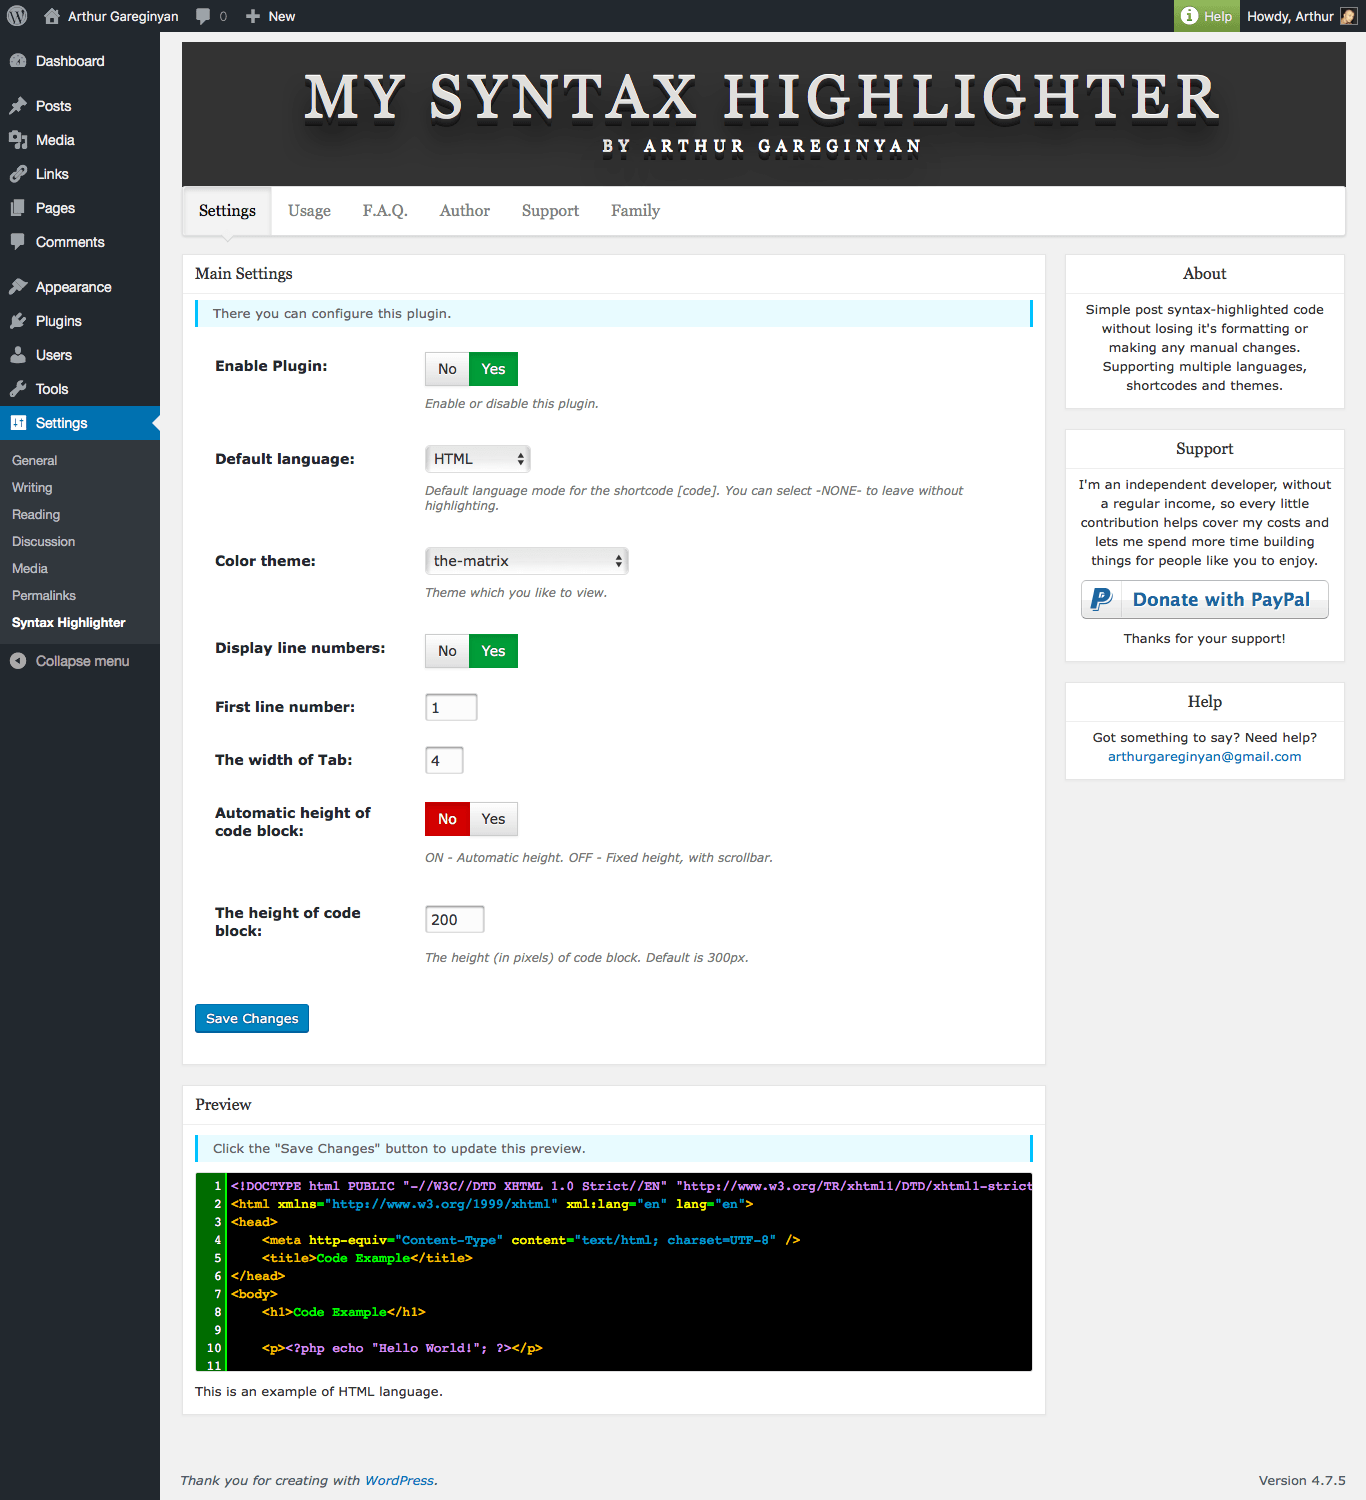
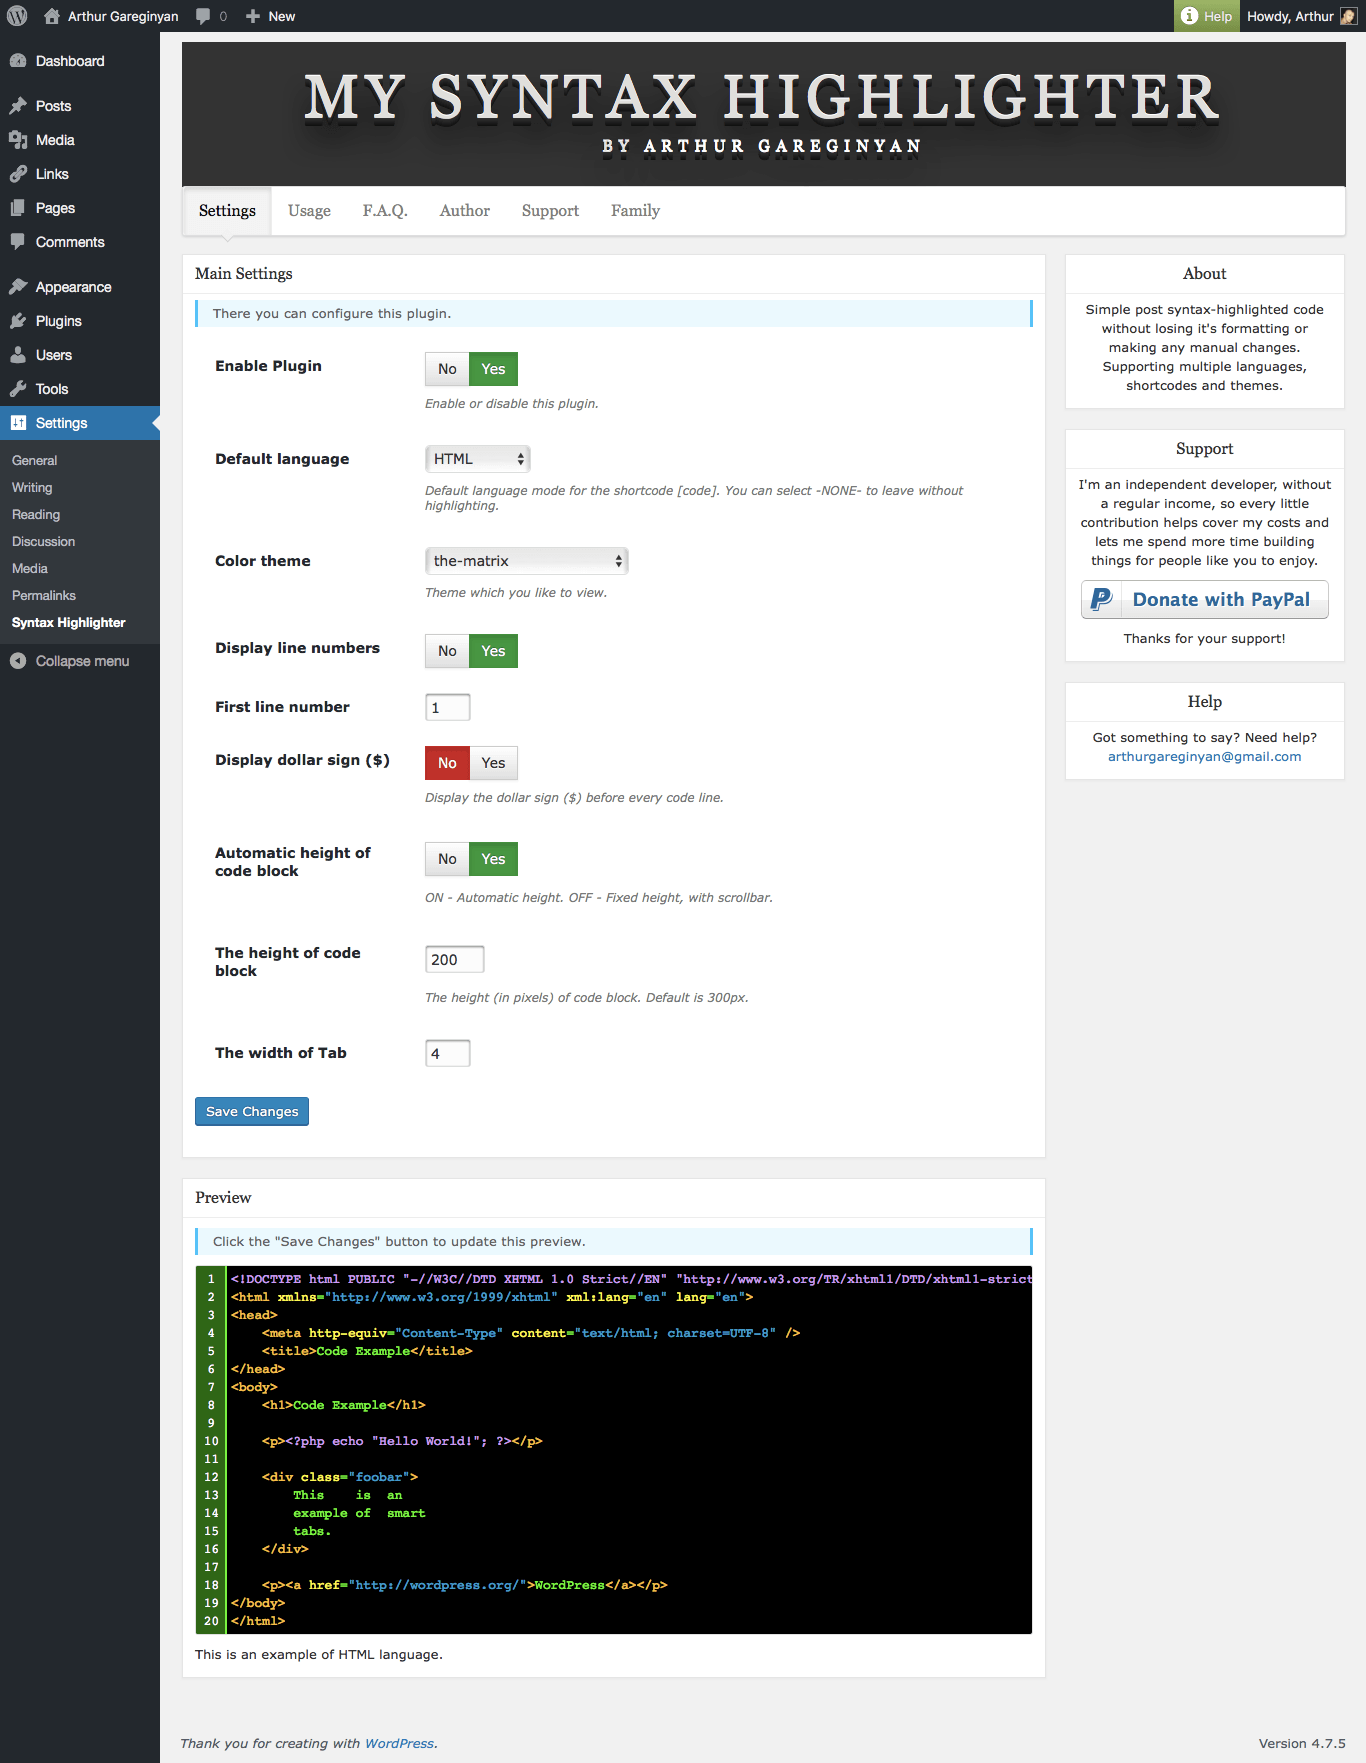
Plugin updated to version 2.3

diff --git a/inc/js/codemirror-settings.js b/inc/js/codemirror-settings.js
@@ -5,7 +5,7 @@
  * @uthor       Arthur Gareginyan
  * @link        http://www.arthurgareginyan.com
  * @copyright   Copyright (c) 2016-2017 Arthur Gareginyan. All Rights Reserved.
- * @since       2.0
+ * @since       2.3
  */
 
 
@@ -17,6 +17,7 @@ jQuery(document).ready(function($) {
     var theme = mshighlighter_scriptParams["theme"];
     var line_numbers = ( mshighlighter_scriptParams["line_numbers"] == 'true' );
     var first_line_number = parseInt( mshighlighter_scriptParams["first_line_number"] );
+    var dollar_sign = mshighlighter_scriptParams["dollar_sign"];
     var tab_size = parseInt( mshighlighter_scriptParams["tab_size"] );
 
     // Find all textareas on page
@@ -90,5 +91,14 @@ jQuery(document).ready(function($) {
         editor.refresh();
 
     });
+
+    // Replace line numbers with dollar sign
+    if ( dollar_sign == 'true' ) {
+        $(".CodeMirror-linenumber").each(function() {
+            var number = $(this).text();
+            var dollar = number.replace(/[0-9]+/, "$");
+            $(this).text(dollar);
+        });
+    }
 
 });

diff --git a/inc/css/frontend.css b/inc/css/frontend.css
@@ -5,7 +5,7 @@
  * @uthor       Arthur Gareginyan
  * @link        http://www.arthurgareginyan.com
  * @copyright   Copyright (c) 2016-2017 Arthur Gareginyan. All Rights Reserved.
- * @since       2.0.1
+ * @since       2.3
  */
 
 
@@ -24,4 +24,8 @@
 .my-syntax-highlighter .CodeMirror pre {
     height: 24px;
     margin: 0 !important;
+}
+
+.my-syntax-highlighter .CodeMirror-linenumber {
+    text-align: center;
 }

diff --git a/inc/css/admin.css b/inc/css/admin.css
@@ -5,7 +5,7 @@
  * @uthor       Arthur Gareginyan
  * @link        http://www.arthurgareginyan.com
  * @copyright   Copyright (c) 2016-2017 Arthur Gareginyan. All Rights Reserved.
- * @since       2.0
+ * @since       2.3
  */
 
 
@@ -437,4 +437,8 @@ textarea,
 .CodeMirror {
     border: 1px solid #e0e0e0;
     border-radius: 3px;
+}
+
+.CodeMirror-linenumber {
+    text-align: center !important;
 }

diff --git a/inc/php/settings.php b/inc/php/settings.php
@@ -10,7 +10,7 @@ defined( 'ABSPATH' ) or die( "Restricted access!" );
 /**
  * Render Settings Tab
  *
- * @since 2.2
+ * @since 2.3
  */
 ?>
     <!-- SIDEBAR -->
@@ -187,12 +187,10 @@ defined( 'ABSPATH' ) or die( "Restricted access!" );
                                                             );
                                 ?>
 
-                                <?php mshighlighter_setting( 'tab_size',
-                                                             __( 'The width of Tab', MSHIGHLIGHTER_TEXT ),
-                                                             '',
-                                                             'field',
-                                                             '4',
-                                                             '2'
+                                <?php mshighlighter_setting( 'dollar_sign',
+                                                             __( 'Display dollar sign ($)', MSHIGHLIGHTER_TEXT ),
+                                                             __( 'Display the dollar sign ($) before every code line.', MSHIGHLIGHTER_TEXT ),
+                                                             'check'
                                                             );
                                 ?>
 
@@ -210,6 +208,15 @@ defined( 'ABSPATH' ) or die( "Restricted access!" );
                                                              '300',
                                                              '4'
                                                          );
+                                ?>
+
+                                <?php mshighlighter_setting( 'tab_size',
+                                                             __( 'The width of Tab', MSHIGHLIGHTER_TEXT ),
+                                                             '',
+                                                             'field',
+                                                             '4',
+                                                             '2'
+                                                            );
                                 ?>
 
                             </table>

diff --git a/inc/php/enqueue.php b/inc/php/enqueue.php
@@ -10,7 +10,7 @@ defined( 'ABSPATH' ) or die( "Restricted access!" );
 /**
  * Base for the _load_scripts hook
  *
- * @since 2.1
+ * @since 2.3
  */
 function mshighlighter_load_scripts_base( $options ) {
 
@@ -40,13 +40,15 @@ function mshighlighter_load_scripts_base( $options ) {
 
     // Dynamic JS. Create JS object and injected it into the JS file
     if ( !empty( $options['theme'] ) ) { $theme = $options['theme']; } else { $theme = "default"; }
-    if ( !empty( $options['line_numbers'] ) && ( $options['line_numbers'] == "on" ) ) { $line_numbers = "true"; } else { $line_numbers = "false"; }
+    if ( !empty( $options['line_numbers'] ) && ( $options['line_numbers'] == "on" ) || !empty( $options['dollar_sign'] ) && ( $options['dollar_sign'] == "on" ) ) { $line_numbers = "true"; } else { $line_numbers = "false"; }
     if ( !empty( $options['first_line_number'] ) ) { $first_line_number = $options['first_line_number']; } else { $first_line_number = "0"; }
+    if ( !empty( $options['dollar_sign'] ) && ( $options['dollar_sign'] == "on" ) ) { $dollar_sign = "true"; } else { $dollar_sign = "false"; }
     if ( !empty( $options['tab_size'] ) ) { $tab_size = $options['tab_size']; } else { $tab_size = "4"; }
     $script_params = array(
                            'theme' => $theme,
                            'line_numbers' => $line_numbers,
                            'first_line_number' => $first_line_number,
+                           'dollar_sign' => $dollar_sign,
                            'tab_size' => $tab_size,
                            );
     wp_localize_script( MSHIGHLIGHTER_PREFIX . '-codemirror-settings-js', MSHIGHLIGHTER_PREFIX . '_scriptParams', $script_params );

diff --git a/my-syntax-highlighter.php b/my-syntax-highlighter.php
@@ -5,7 +5,7 @@
  * Description: Simple post syntax-highlighted code without losing it's formatting or making any manual changes. Supporting multiple languages, shortcodes and themes.
  * Author: Arthur Gareginyan
  * Author URI: http://www.arthurgareginyan.com
- * Version: 2.2
+ * Version: 2.3
  * License: GPL3
  * Text Domain: my-syntax-highlighter
  * Domain Path: /languages/

diff --git a/README.md b/README.md
@@ -20,6 +20,7 @@ This plugin is just plug and play, no tedious configurations or hacks, just inst
 * Standalone Shortcode-Processor
 * Syntax highlighting (by CodeMirror)
 * Line numbering
+* Dollar sign before line
 * 36 Themes
 * 14 Languages
 * 16 Shortcodes
